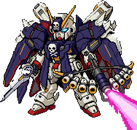
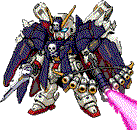
Gundam SD: quantize sprites to the watch palette to stay under the resource cap
The Pebble resource bundle is capped at 256 KB per platform. Full-colour
RGBA PNGs of the three new suits were 102 KB on emery on their own, which
put the emery bundle at 272 KB of bitmaps before fonts -- over the cap if
the SDK stores the PNGs as-is rather than converting them to PBI. That is
not a bet worth taking on a build we cannot run here.

fit_sprite.py now quantizes to ARGB2222 as its last step. That is the
watch's actual colour space -- two bits per channel, four levels each of
R, G, B and A -- so this is not a quality reduction: the SDK quantizes to
the same 64 colours regardless. Doing it here just means we pick the
dithering rather than inheriting whatever the toolchain does, and the files
collapse from 165 KB to 48 KB across both variants of all three suits.

Dithering is the part that matters. Snapping each channel to the nearest
level with no error diffusion shifts whole flat regions off-hue -- Sazabi's
crimson turns magenta -- because every pixel in an area rounds the same way.
Floyd-Steinberg keeps the average colour right. Alpha is snapped without
dithering, since dithered alpha frays a clean sprite edge into a dashed one.
Quantization runs after scaling, never before; resampling a quantized image
would reintroduce colours the watch cannot show.

Budget after this, against the 256 KB cap:

  emery  bitmaps 199.3 KB as PNG / 142.2 KB as 8bpp PBI  (+29.7 KB from this PR)
  chalk  bitmaps 156.9 KB as PNG /  99.5 KB as 8bpp PBI  (+18.1 KB from this PR)
[…]

diff --git a/pebble/gundam_wfm_static_wf/tools/fit_sprite.py b/pebble/gundam_wfm_static_wf/tools/fit_sprite.py
@@ -14,6 +14,7 @@ Usage
   python fit_sprite.py SOURCE.png NAME --outdir /tmp/preview
   python fit_sprite.py SOURCE.png NAME --no-trim          # keep source padding
   python fit_sprite.py SOURCE.png NAME --no-round-safe    # allow round clipping
+  python fit_sprite.py SOURCE.png NAME --no-quantize      # keep full colour
 
 What it does, in order
 ----------------------
@@ -26,6 +27,9 @@ What it does, in order
    automatically by filename suffix. The chalk variant is shrunk further if
    needed to stay inside the round display's visible circle -- the band is a
    rectangle but the glass is not.
+4. Quantize to the watch's ARGB2222 colour space with dithering. The watch
+   does this anyway; doing it here picks the dithering deliberately and keeps
+   the resource bundle well under the 256 KB platform limit.
 
 Band sizes come from src/c/main.c: the text stack is anchored to the bottom
 of the screen and the sprite band is whatever is left above it, minus the
@@ -90,6 +94,60 @@ def fit(w, h, max_w, max_h):
     """Largest size within (max_w, max_h) preserving aspect. Never upscales."""
     scale = min(float(max_w) / w, float(max_h) / h, 1.0)
     return max(1, int(round(w * scale))), max(1, int(round(h * scale)))
+
+
+# Pebble's GColor8 is ARGB2222: two bits per channel, so each of R, G, B and
+# A can only be one of these four levels. The watch quantizes to this whether
+# we do or not -- doing it here means we choose the dithering instead of
+# leaving it to the SDK, and the PNGs shrink enormously as a side effect
+# (165 KB down to ~49 KB across the three suits), which is what keeps the
+# resource bundle under the 256 KB platform limit.
+LEVELS = (0, 85, 170, 255)
+
+
+def _snap(v):
+    if v < 43:
+        return 0
+    if v < 128:
+        return 85
+    if v < 213:
+        return 170
+    return 255
+
+
+def quantize_pebble(w, h, px):
+    """Snap to ARGB2222 with Floyd-Steinberg dithering on the colour channels.
+
+    Without dithering the 64-colour palette shifts whole regions off-hue --
+    Sazabi's crimson turns magenta, for one -- because a flat area all rounds
+    the same way. Diffusing the error keeps the average colour right.
+
+    Alpha is snapped without dithering: dithered alpha turns a clean sprite
+    edge into a dashed one.
+    """
+    buf = [float(v) for v in px]
+    out = bytearray(len(px))
+
+    def diffuse(o, c, err, x, y):
+        for dx, dy, frac in ((1, 0, 7.0 / 16), (-1, 1, 3.0 / 16),
+                             (0, 1, 5.0 / 16), (1, 1, 1.0 / 16)):
+            nx, ny = x + dx, y + dy
+            if 0 <= nx < w and ny < h:
+                buf[(ny * w + nx) * 4 + c] += err * frac
+
+    for y in range(h):
+        for x in range(w):
+            o = (y * w + x) * 4
+            alpha = _snap(px[o + 3])
+            out[o + 3] = alpha
+            if alpha == 0:
+                continue          # colour under a transparent pixel is unused
+            for c in range(3):
+                old = buf[o + c]
+                new = _snap(old)
+                out[o + c] = new
+                diffuse(o, c, old - new, x, y)
+    return out
 
 
 def opaque_profile(w, h, px):
@@ -199,6 +257,15 @@ def main(argv):
                 if note:
                     print(" %s" % note.strip())
             assert dw <= mw and dh <= mh
+
+            # Quantize after scaling, never before: resampling a quantized
+            # image reintroduces colours that are not on the watch.
+            if '--no-quantize' not in argv:
+                qw, qh, qpx = read_rgba(dst)
+                before = os.path.getsize(dst)
+                write_rgba(dst, qw, qh, quantize_pebble(qw, qh, qpx))
+                print("        ARGB2222 + dither: %.1f KB -> %.1f KB"
+                      % (before / 1024.0, os.path.getsize(dst) / 1024.0))
     finally:
         if os.path.exists(trimmed):
             os.remove(trimmed)
